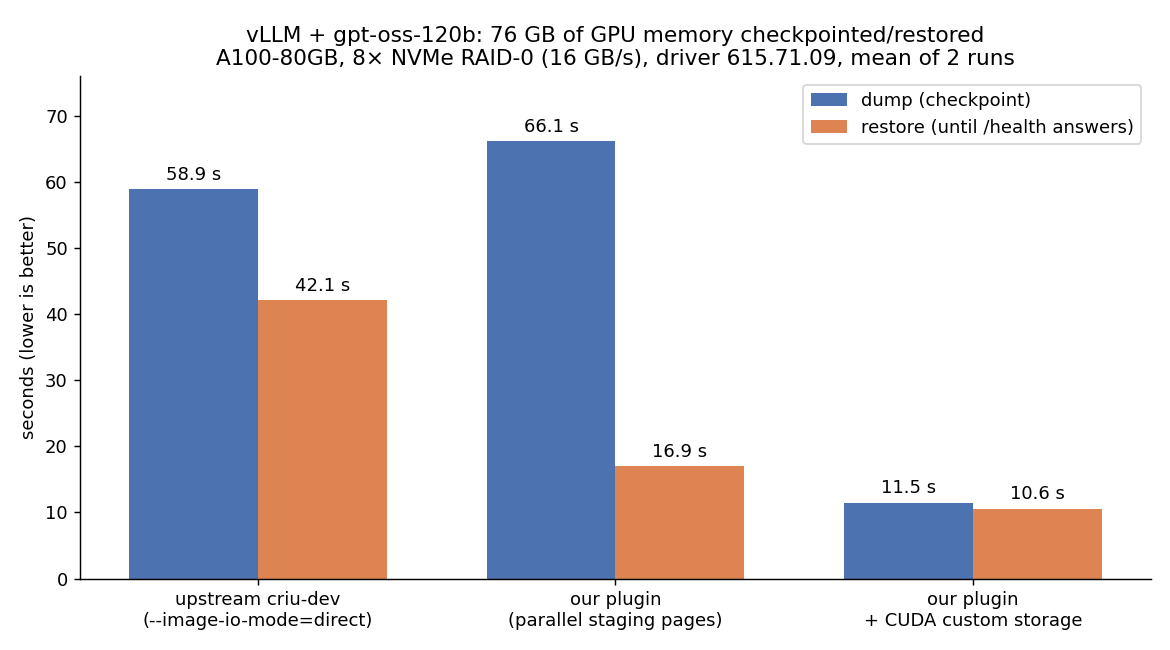
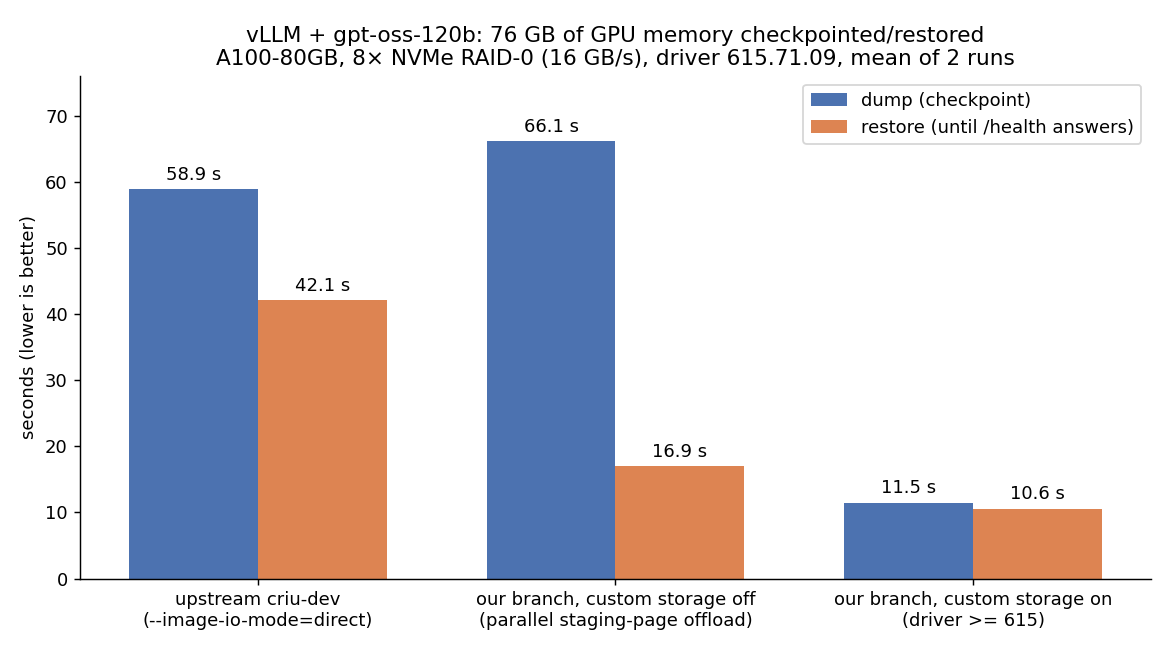
README: reference only upstream head and the upstream-cuda-custom-storage branch; June targets documented in the June summary

Changed region(s): [[0.4, 0.8923, 0.6462, 0.9846], [0.7385, 0.8923, 0.9538, 0.9846]]

diff --git a/results/2026-10_p4de_custom_storage_615/plot_gptoss.py b/results/2026-10_p4de_custom_storage_615/plot_gptoss.py
@@ -6,7 +6,7 @@ matplotlib.use("Agg")
 import matplotlib.pyplot as plt
 import numpy as np
 
-variants = ["upstream criu-dev\n(--image-io-mode=direct)", "our plugin\n(parallel staging pages)", "our plugin\n+ CUDA custom storage"]
+variants = ["upstream criu-dev\n(--image-io-mode=direct)", "our branch, custom storage off\n(parallel staging-page offload)", "our branch, custom storage on\n(driver >= 615)"]
 dump = [(59.378 + 58.467) / 2, (66.699 + 65.554) / 2, (11.481 + 11.497) / 2]
 restore = [(41.928 + 42.314) / 2, (16.914 + 16.981) / 2, (10.556 + 10.553) / 2]
 

diff --git a/README.md b/README.md
@@ -1,8 +1,8 @@
 # bench-criu
 
 Checkpoint/restore benchmarks for GPU (CUDA / PyTorch / vLLM) workloads with CRIU and the NVIDIA
-`cuda-checkpoint` driver API, comparing upstream CRIU with our fork
-([oOraph/criu](https://github.com/oOraph/criu)).
+`cuda-checkpoint` driver API, comparing upstream CRIU with the changes we propose upstream
+([oOraph/criu `upstream-cuda-custom-storage`](https://github.com/oOraph/criu/tree/upstream-cuda-custom-storage)).
 
 ## Headline result (2026-10-05)
 
@@ -15,8 +15,8 @@ regardless of the model (Qwen3-8B gives the same numbers). Cold start of the ser
 | variant | dump | restore | what it does |
 |---|---|---|---|
 | upstream `criu-dev` `4485a86da`, `--image-io-mode=direct` | 59 s | 42 s | driver copies VRAM to host RAM, CRIU writes those pages like any other memory |
-| our plugin, parallel staging pages | 66 s | 17 s | driver still copies VRAM↔host RAM; the plugin moves the staging pages itself with O_DIRECT and 16 `process_vm_writev` threads (21 GB/s on restore), bypassing the page cache |
-| our plugin + **CUDA custom storage** (driver ≥ 615) | **11.5 s** | **10.6 s** | the plugin reads/writes VRAM directly through driver-exposed device mappings, pinned buffers and CUDA streams; no host staging copy at all |
+| our branch, custom storage off | 66 s | 17 s | driver still copies VRAM↔host RAM; the plugin moves the staging pages itself with O_DIRECT and 16 `process_vm_writev` threads (21 GB/s on restore), bypassing the page cache |
+| our branch, **custom storage on** (driver ≥ 615) | **11.5 s** | **10.6 s** | the plugin reads/writes VRAM directly through driver-exposed device mappings, pinned buffers and CUDA streams; no host staging copy at all |
 
 Restore is now 7 s of VRAM copy (10.8 GB/s into the mapping) plus 3 s of CRIU work on the 3.7 GB of CPU
 pages and the process tree. Details, per-run numbers and raw logs:
@@ -26,13 +26,12 @@ pages and the process tree. Details, per-run numbers and raw logs:
 
 | Image target | Source | Description |
 |---|---|---|
-| `criu-upstream-head` | `checkpoint-restore/criu` `criu-dev` @ `4485a86da` (2026-09-24) | upstream: libcuda Driver API backend, PR #3021/#3022 (parallel memfd restore, AIO/O_DIRECT image reads), `--image-io-mode=direct` (PR #3066, off by default), LZ4 |
-| `criu-ref` (`CRIU_REF=…`) | `oOraph/criu` branch of your choice | our fork. `fast_cuda_plugin_on_head` = staging pages via O_DIRECT (serial restore); `fast_cuda_plugin_on_head_parallel` = + parallel `process_vm_writev` restore; `upstream-cuda-custom-storage` = clean series for the upstream PR: custom storage + staging-page offload |
-| `criu-v42-ours` | tag `v4.2-cuda-plugin-optim` (= branch `fast_cuda_plugin_final`) | CRIU v4.2 + our plugin, serial restore (the pre-October state of the fork) |
-| `criu-local` | `./criu-src` (git-ignored; rsync your checkout into it) | validate a branch without pushing it |
-| `criu-dev`, `criu-optimized`, `criu-fast-cuda-1` | `criu-dev` @ `4d76d1acd`, branch `optim1`, branch `fast-cuda-1` | June 2026 trio: baseline before PR #3021/#3022, baseline + both PRs, baseline + our plugin; kept for the June results |
+| `criu-upstream-head` | [checkpoint-restore/criu](https://github.com/checkpoint-restore/criu) `criu-dev` @ `4485a86da` (2026-09-24) | upstream: libcuda Driver API backend, PR #3021/#3022 (parallel memfd restore, AIO/O_DIRECT image reads), `--image-io-mode=direct` (PR #3066, off by default), LZ4 |
+| `criu-ref` with `CRIU_REF=upstream-cuda-custom-storage` | [oOraph/criu](https://github.com/oOraph/criu/tree/upstream-cuda-custom-storage) | upstream head + the series proposed upstream: staging-page offload (O_DIRECT, parallel `process_vm_writev` restore) and CUDA custom storage (`--plugin-option=cuda_plugin.custom-storage=auto\|on\|off`, `auto` enables it on driver ≥ 615) |
 
-`Dockerfile.vllm` builds the same CRIU variants into a vLLM image (`APP_IMAGE`, `CRIU_REPO`, `CRIU_REF`).
+`Dockerfile.vllm` builds either CRIU into a vLLM image (`APP_IMAGE`, `CRIU_REPO`, `CRIU_REF`). Older
+targets in the `Dockerfile` (`criu-dev`, `criu-optimized`, `criu-fast-cuda-1`, `criu-v42-ours`) are the
+builds behind the earlier result sets and are described in those summaries.
 
 ### Why the plugin is faster
 

diff --git a/results/mini_benchmark/summary.md b/results/mini_benchmark/summary.md
@@ -28,9 +28,9 @@ Sequential read, 1M block, 32 parallel jobs, `ioengine=sync`, `iodepth=1`:
 - `RUNS=2`, `DROP_CACHE=yes` (page cache dropped between dump and restore)
 - Dump dir on `/mnt/nvme` (RAID-0 NVMe)
 - Images compared:
-  - **orig** (`criu-dev`): upstream CRIU, no CUDA plugin
-  - **new** (`criu-optimized`): upstream CRIU + PR #2022 (native AIO page reads + O_DIRECT), no CUDA plugin
-  - **home-made** (`criu-fast-cuda-1`): upstream CRIU + [custom CUDA plugin](https://github.com/oOraph/criu/tree/fast_cuda_plugin_final) (GPU pages offloaded to `gpu-pages-*.img`)
+  - **orig** (`criu-dev`, Dockerfile target of the same name = upstream `criu-dev` @ `4d76d1acd`, just before PR #3021/#3022 were merged): upstream CRIU, no CUDA plugin
+  - **new** (`criu-optimized` = branch `optim1`): upstream CRIU + PR #2022 (native AIO page reads + O_DIRECT), no CUDA plugin
+  - **home-made** (`criu-fast-cuda-1` = branch `fast-cuda-1`): upstream CRIU + [custom CUDA plugin](https://github.com/oOraph/criu/tree/fast_cuda_plugin_final) (GPU pages offloaded to `gpu-pages-*.img`)
 
 ## Results
 
